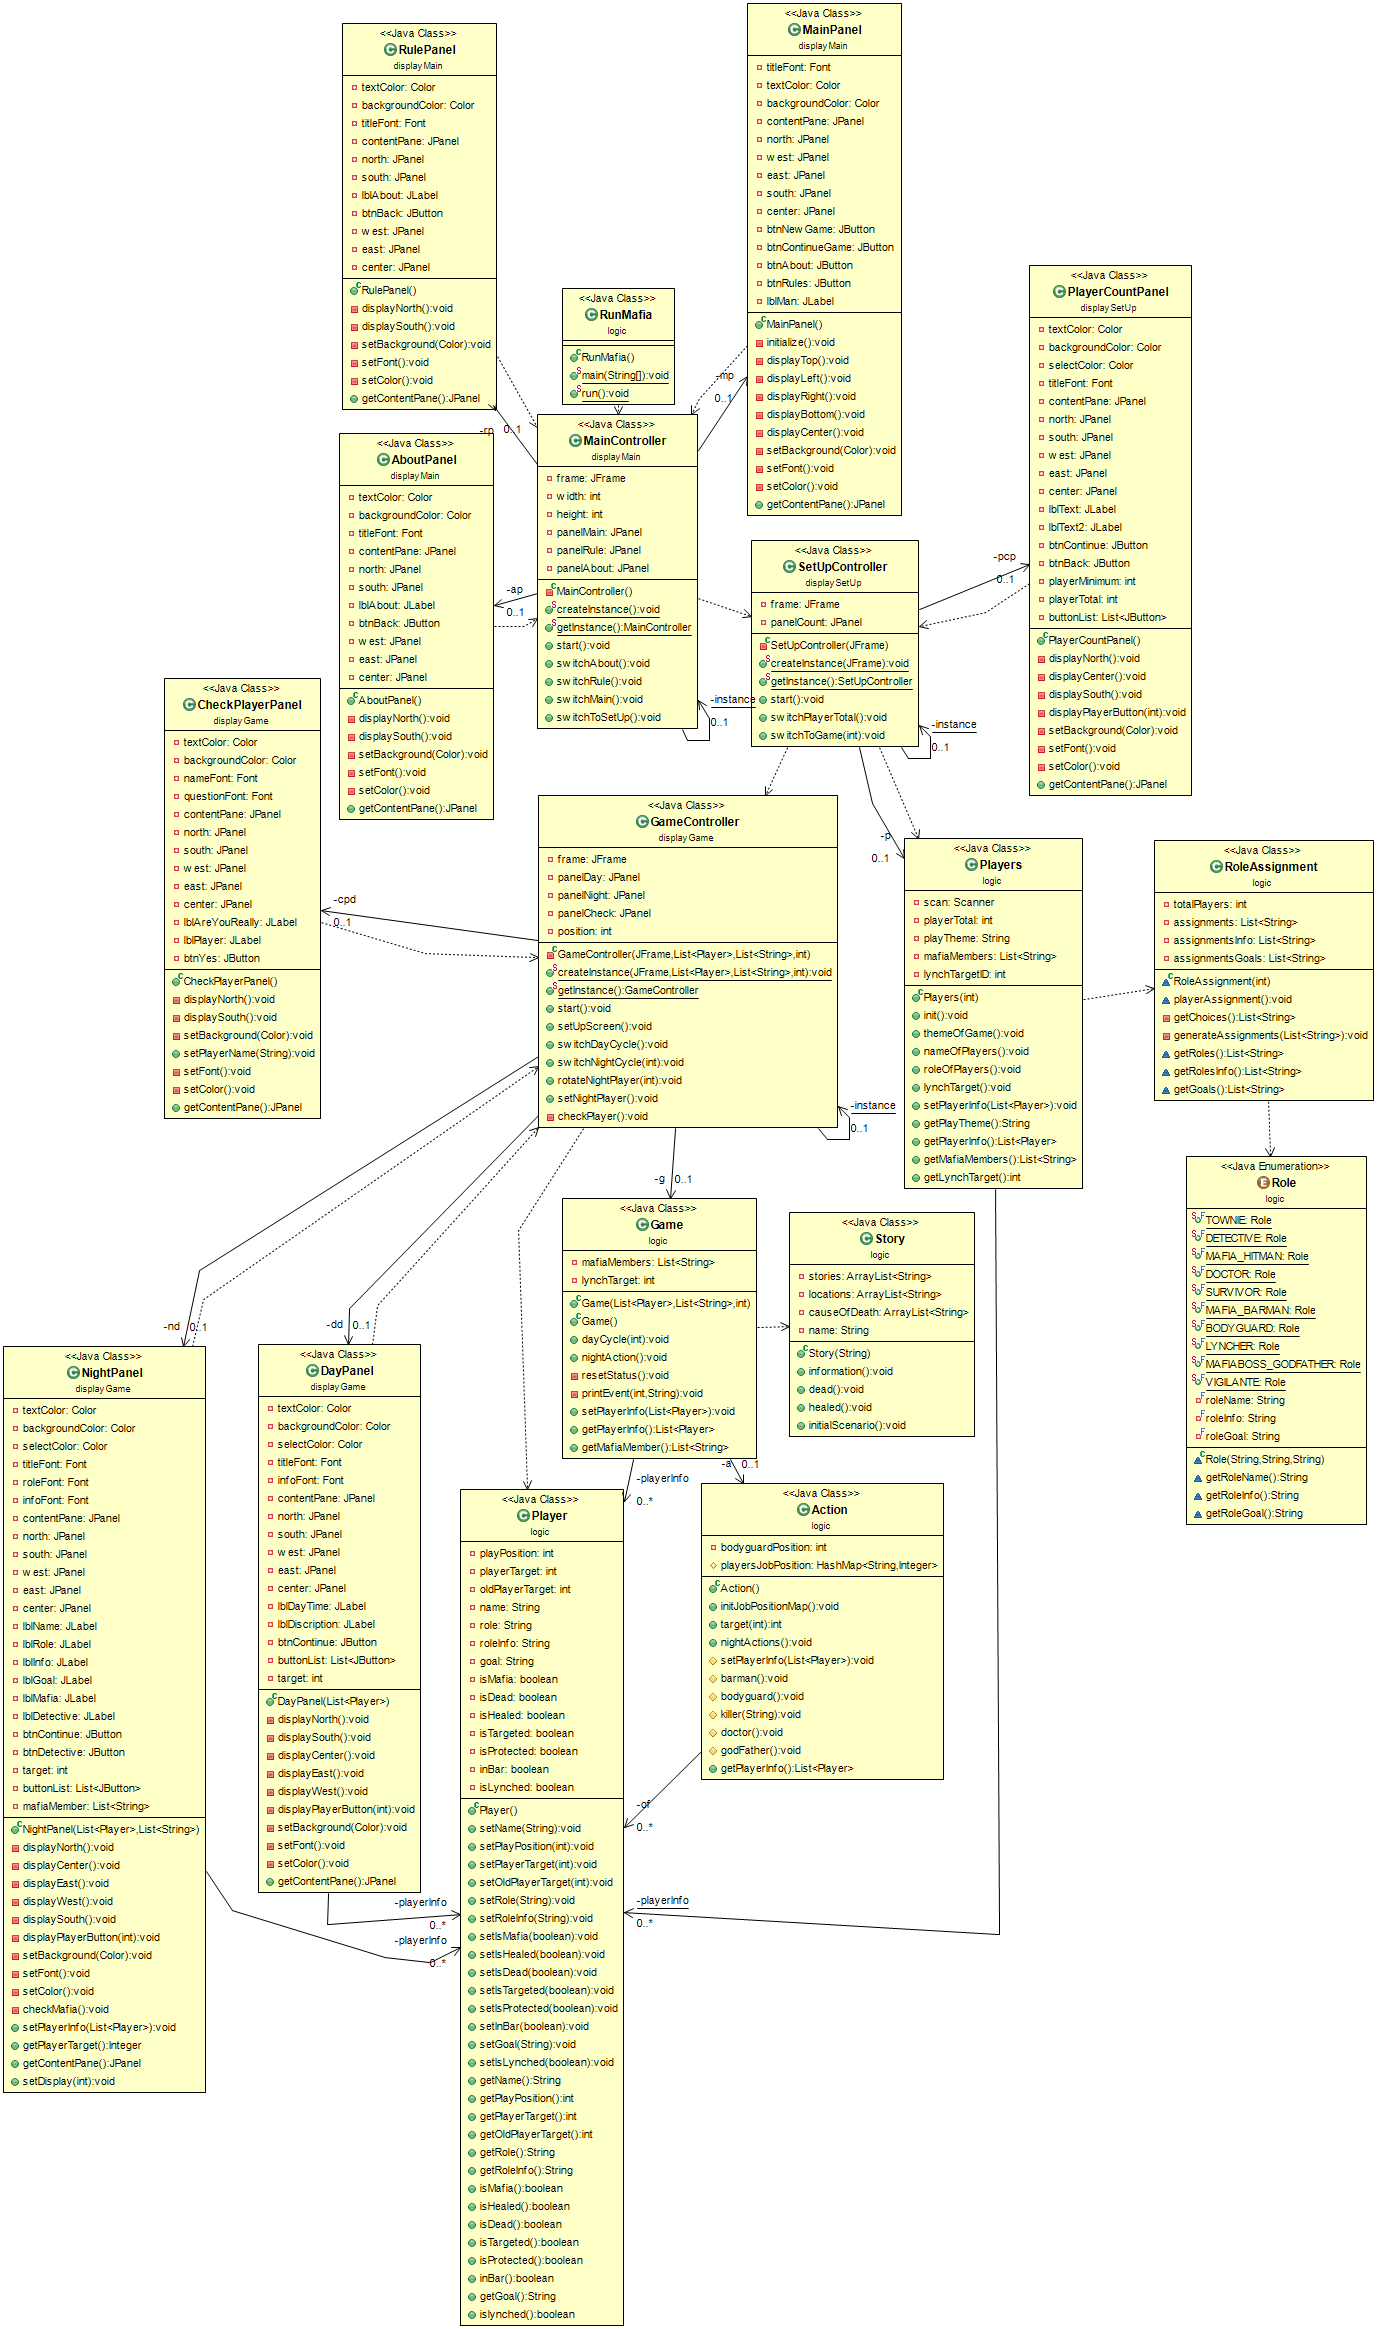
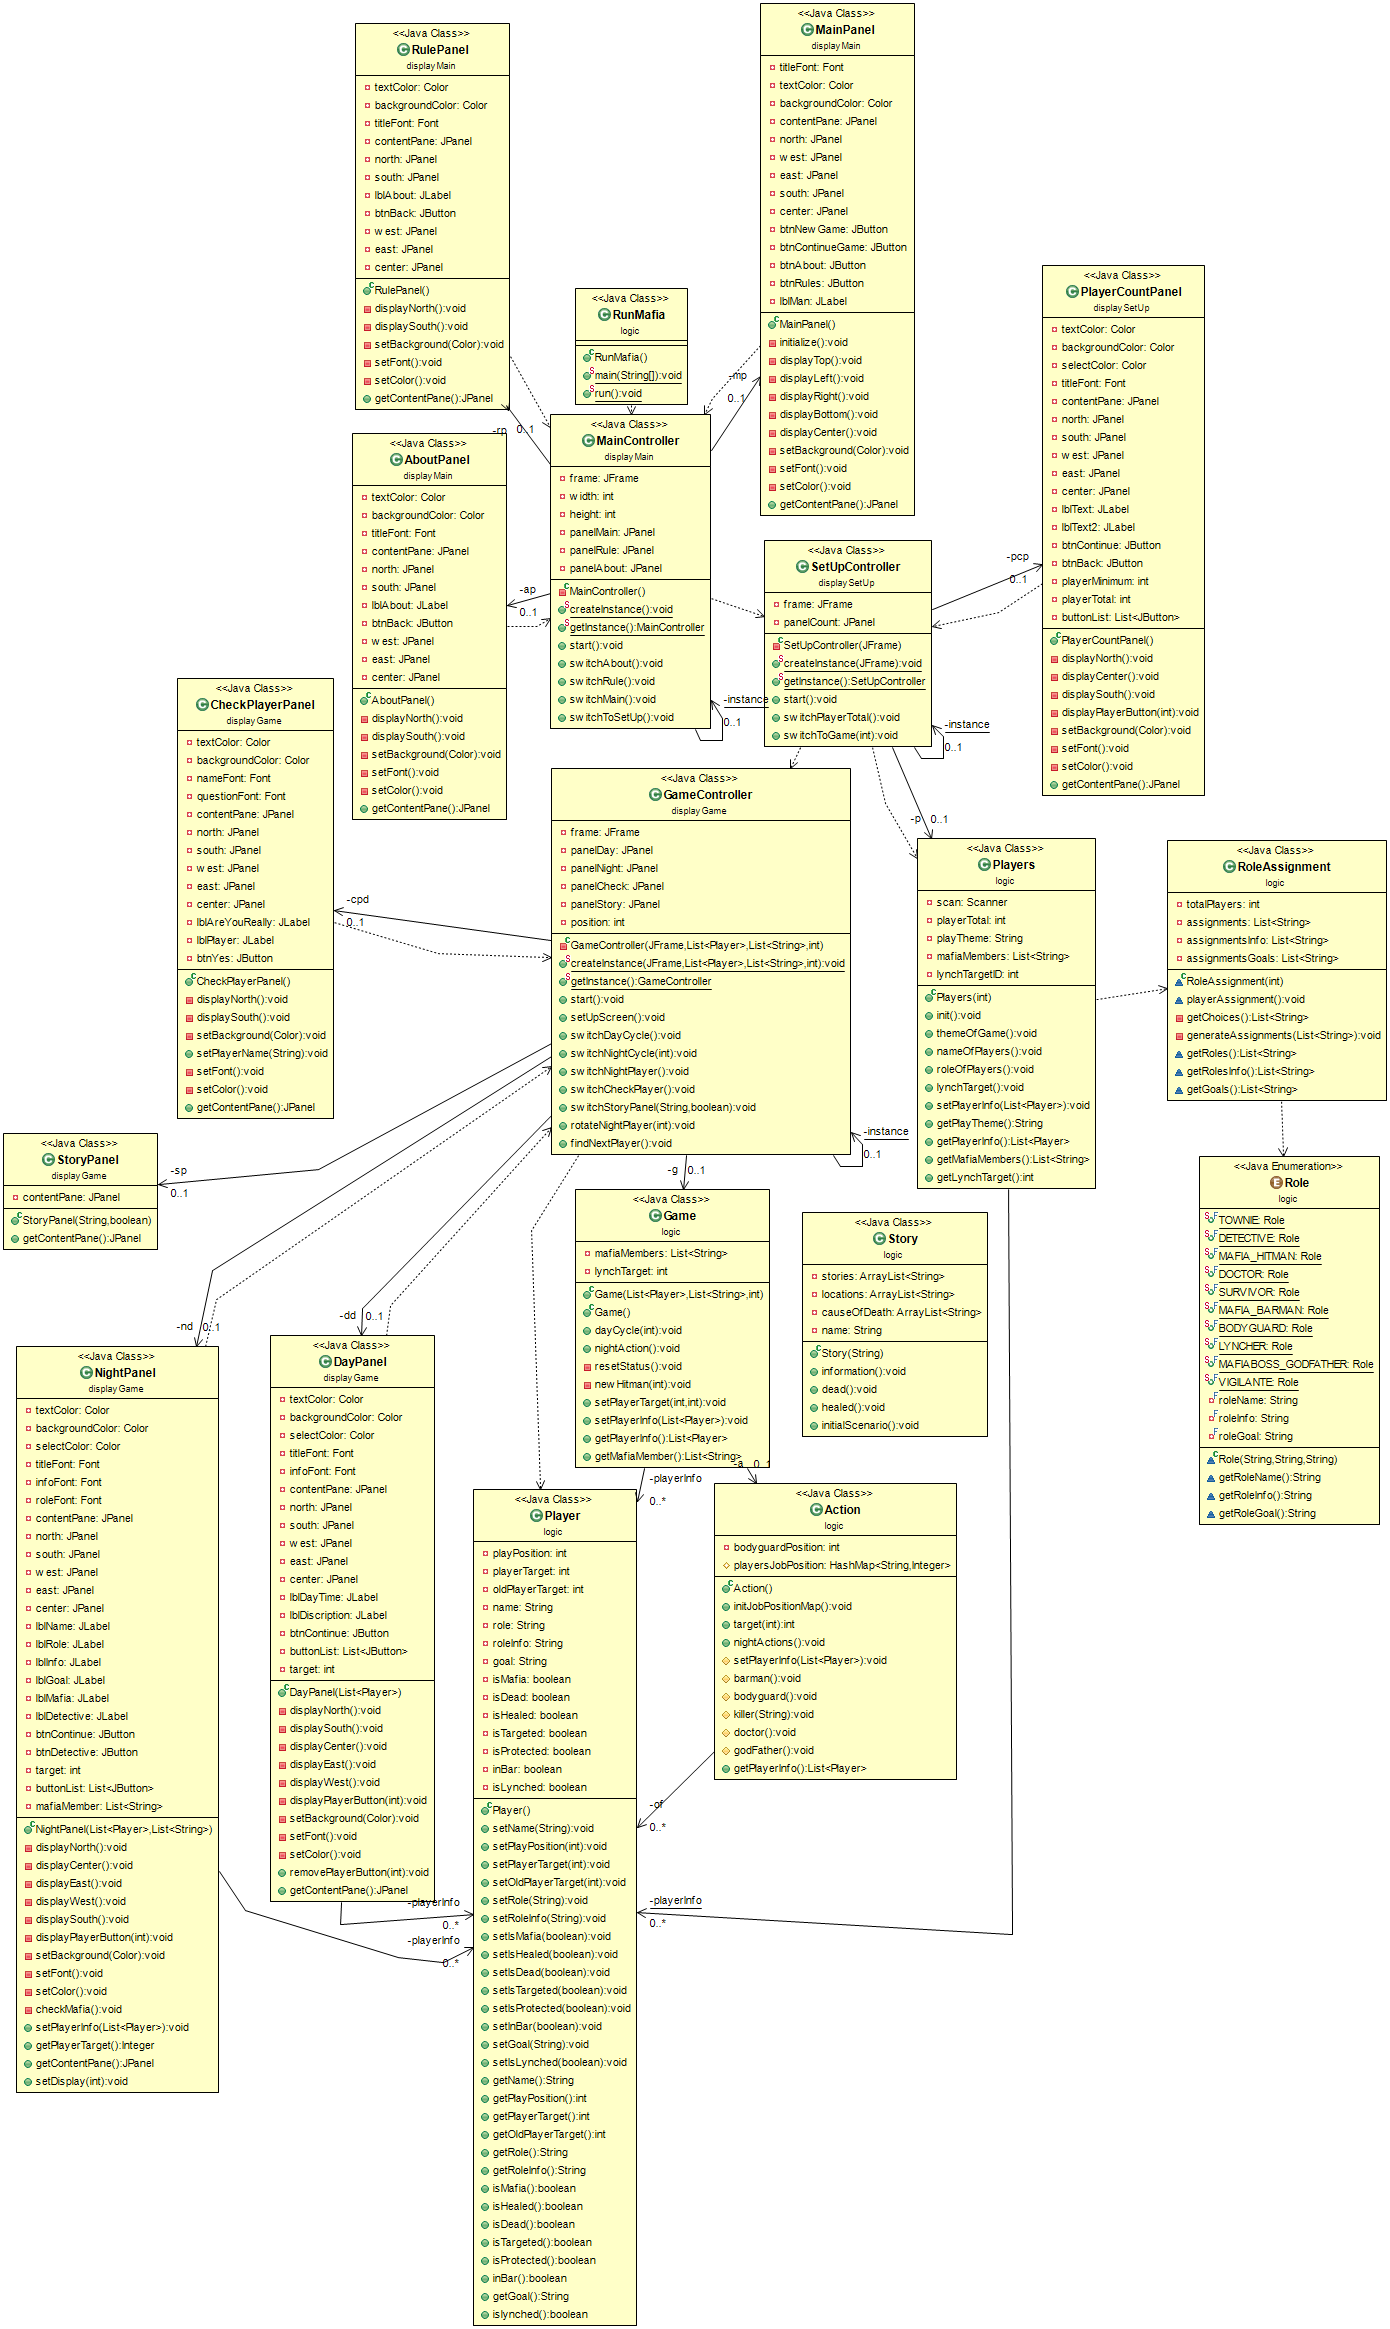
Added witchSotry method

diff --git a/src/displayGame/GameController.java b/src/displayGame/GameController.java
@@ -17,10 +17,13 @@ public class GameController {
 	private DayPanel dd;
 	private NightPanel nd;
 	private CheckPlayerPanel cpd;
+	private StoryPanel sp;
+	
 	//All of the possible panels to be displayed on the frame
 	private JPanel panelDay;
 	private JPanel panelNight;
 	private JPanel panelCheck;
+	private JPanel panelStory;
 	
 	//Location inside the list of players for the night cycle
 	private int position = 0;
@@ -82,6 +85,43 @@ public class GameController {
 	}
 	
 	/**
+	 * Updates the north panel of the Night Panel text with the information of the next player
+	 * Hide the current view
+	 * set the nightPanel to the update ContentPane
+	 * update the frame with new content pane
+	 */
+	public void switchNightPlayer(){
+		nd.setDisplay(position);
+		frame.getContentPane().setVisible(false);
+		panelNight = nd.getContentPane();
+		frame.setContentPane(panelNight);
+		panelNight.setVisible(true);
+	}
+	/**
+	 * Updates the Check Player panel text with the next player
+	 * Switch the frame to the CheckPlayerPanel
+	 */
+	public void switchCheckPlayer(){
+		cpd.setPlayerName(g.getPlayerInfo().get(position).getName());
+		frame.getContentPane().setVisible(false);
+		panelCheck = cpd.getContentPane();
+		frame.setContentPane(panelCheck);
+		panelCheck.setVisible(true);
+	}
+	/**
+	 * Switches the frame to the Story Panel to display the death or savior of a player
+	 * @param name
+	 * @param dead
+	 */
+	public void switchStoryPanel(String name, boolean dead){
+		sp = new StoryPanel(name,dead);
+		panelStory = sp.getContentPane();
+		frame.getContentPane().setVisible(false);
+		frame.setContentPane(panelStory);
+		panelStory.setVisible(true);
+	}
+	
+	/**
 	 * finds the next alive player in the list and displays screen asking if they are that person
 	 * once all players have gone goes to dayCycle 
 	 * @param position
@@ -112,7 +152,7 @@ public class GameController {
 			g.nightAction();
 			
 			//
-			switchDayCycle();
+			//switchDayCycle();
 		}
 		//Loops through the list of players 
 		else{
@@ -135,30 +175,7 @@ public class GameController {
 			}
 		}
 	}
-	/**
-	 * Updates the north panel of the Night Panel text with the information of the next player
-	 * Hide the current view
-	 * set the nightPanel to the update ContentPane
-	 * update the frame with new content pane
-	 */
-	public void switchNightPlayer(){
-		nd.setDisplay(position);
-		frame.getContentPane().setVisible(false);
-		panelNight = nd.getContentPane();
-		frame.setContentPane(panelNight);
-		panelNight.setVisible(true);
-	}
-	/**
-	 * Updates the Check Player panel text with the next player
-	 * Switch the frame to the CheckPlayerPanel
-	 */
-	public void switchCheckPlayer(){
-		cpd.setPlayerName(g.getPlayerInfo().get(position).getName());
-		frame.getContentPane().setVisible(false);
-		panelCheck = cpd.getContentPane();
-		frame.setContentPane(panelCheck);
-		panelCheck.setVisible(true);
-	}
+	
 
 	
 }

diff --git a/src/logic/Game.java b/src/logic/Game.java
@@ -3,6 +3,8 @@ package logic;
 import java.util.ArrayList;
 import java.util.List;
 
+import displayGame.GameController;
+
 /**Game Class
 	*This class runs the main logic and loop for the game
 	*This class uses the Players class to assign values for the amount of players and their names vis Player Input
@@ -65,6 +67,7 @@ public class Game{
 		a.nightActions();
 		setPlayerInfo(a.getPlayerInfo());
 		resetStatus();
+		
 	}
 	
 	
@@ -72,16 +75,20 @@ public class Game{
 	 * Resets all of the status for every player
 	 */
 	private void resetStatus(){
+		String name ="";
+		boolean dead = false;
 		for(int i=0;i<playerInfo.size();i++){
 			//Saves the target of that night to the variable OldPlayerTarget for the 
 			playerInfo.get(i).setOldPlayerTarget(playerInfo.get(i).getPlayerTarget());
 			
 			if(playerInfo.get(i).isTargeted()&& !playerInfo.get(i).islynched()){
-				printEvent(i,"dead");
+				name = playerInfo.get(i).getName();
+				dead = true;
 				playerInfo.get(i).setIsDead(true);
 			}
 			if(playerInfo.get(i).isHealed()&&playerInfo.get(i).isTargeted()){
-				printEvent(i,"alive");
+				name = playerInfo.get(i).getName();
+				dead = false;
 				playerInfo.get(i).setIsDead(false);
 			}
 			if(playerInfo.get(i).isDead()&&playerInfo.get(i).getRole().contains("Hitman")){
@@ -92,6 +99,12 @@ public class Game{
 			playerInfo.get(i).setIsProtected(false);
 			playerInfo.get(i).setInBar(false);//Removes any player that may have been in the bar out
 			playerInfo.get(i).setPlayerTarget(-1);//Resets the target for each player
+		}
+		//If a player died last night
+		if(!name.equals("")){
+			GameController.getInstance().switchStoryPanel(name, dead);
+		}else{
+			GameController.getInstance().switchDayCycle();
 		}
 	}
 	
@@ -104,22 +117,7 @@ public class Game{
 			}
 		}
 	}
-	/**
-	 * This method prints the death message of any player that may have died during the night
-	 * Then prints that they were either killed by the attacker or saved by the doctor
-	 * @param player, status
-	 */
-	private void printEvent(int player, String status){
-		String name = playerInfo.get(player).getName();
-		Story s = new Story(name);
-		s.information();
-		s.initialScenario();
-		if(status.equals("dead")){
-			s.dead();
-		}else if (status.equals("alive")){
-			s.healed();
-		}
-	}
+
 	/**
 	 * Sets the target of the current player
 	 * @param position

diff --git a/src/displayGame/StoryPanel.java b/src/displayGame/StoryPanel.java
@@ -1,0 +1,21 @@
+package displayGame;
+
+import javax.swing.JPanel;
+
+public class StoryPanel {
+	
+	private JPanel contentPane;
+	
+	public StoryPanel(String name, boolean dead){
+		
+	}
+	
+	
+	
+	
+	
+	public JPanel getContentPane(){
+		return contentPane;
+	}
+
+}
